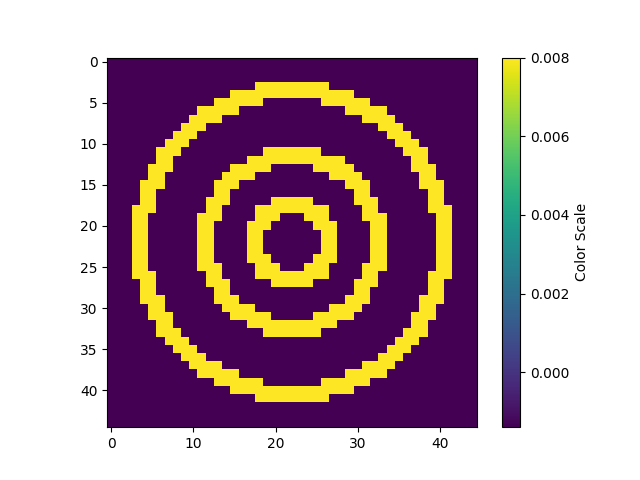
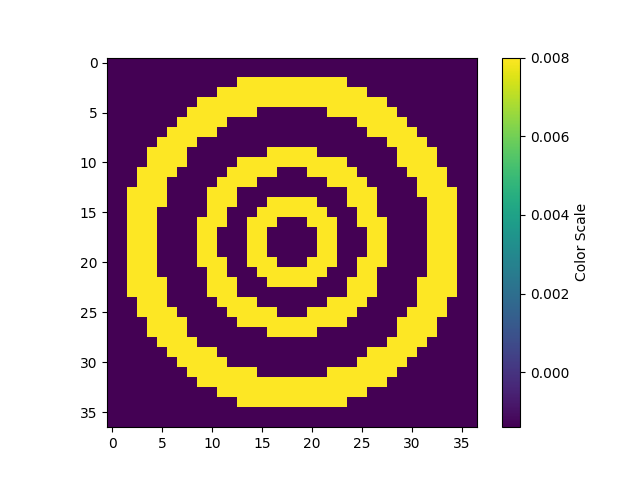
Scaling (including convolution)

diff --git a/convolution/scnn_tracker.py b/convolution/scnn_tracker.py
@@ -10,6 +10,9 @@ import paramiko
 import socket
 import argparse
 import time
+import sys
+sys.path.append('../common')
+from tools import Dimensions
 
 '''
 JPRB 25/09/2023 14:15: I have the impression that:
@@ -54,9 +57,13 @@ def make_kernel_circle(r, k_sz,weight, kernel):
     dy = np.round(r * np.cos(a)).astype("uint32")
     kernel[var + dx, var + dy] = weight
 
-def make_whole_kernel(k_sz):
+def make_whole_kernel(k_sz, hs):
 
-    pos_radi = [19,11,5]
+    k_sz = int(k_sz*hs)
+    if k_sz%2 == 0:
+        k_sz += 1
+
+    pos_radi = np.array([19,11,5])*hs
 
     w_scaler = 0.008
     pos_w = 1
@@ -103,27 +110,28 @@ def parse_args():
     parser.add_argument('-ip', '--ip-out', type= str, help="IP out", default="172.16.222.199")
     parser.add_argument('-ks', '--ks', type=int, help="Kernel Size", default=45)
     parser.add_argument('-b', '--board', type=int, help="Board ID", default=1)
-    parser.add_argument('-rx', '--res-x', type=int, help="Resolution (X: width)", default=640)
-    parser.add_argument('-ry', '--res-y', type=int, help="Resolution (Y: height)", default=480)
 
     return parser.parse_args()
 
 if __name__ == '__main__':
 
     args = parse_args()
+
+    dim = Dimensions.load_from_file('../common/homdim.pkl')
     print("Setting machines up ... ")
     CFG_FILE = f"spynnaker_{args.board}.cfg"
     SPIF_IP = spin_spif_map[f"{args.board}"]
     os.system(f"rig-power 172.16.223.{args.board-1}")
 
     print("Generating Kernel ... ")
-    kernel = make_whole_kernel(args.ks)
+    kernel = make_whole_kernel(args.ks, dim.hs)
 
     print("Creating Network ... ")
     SUB_WIDTH = 16
     SUB_HEIGHT = 8
-    WIDTH = args.res_x
-    HEIGHT = args.res_y
+    WIDTH = dim.fl
+    HEIGHT = dim.fw
+
 
 
     print("Calculating number of neurons per core")
@@ -140,7 +148,6 @@ if __name__ == '__main__':
     
     print(f"NPC: {x} x {y}")
 
-    # pdb.set_trace()
 
     NPC_X = x
     NPC_Y = y
@@ -220,6 +227,7 @@ if __name__ == '__main__':
     p.external_devices.activate_live_output_to(target_pop, spif_output)
 
 
+    pdb.set_trace()
     p.run(RUN_TIME)
 
     p.end()
